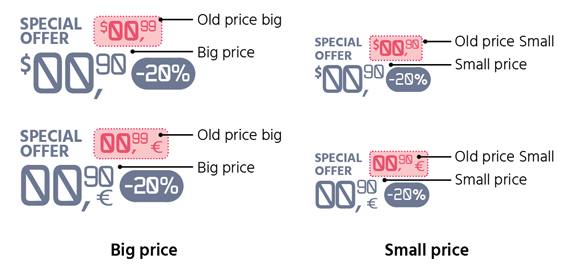
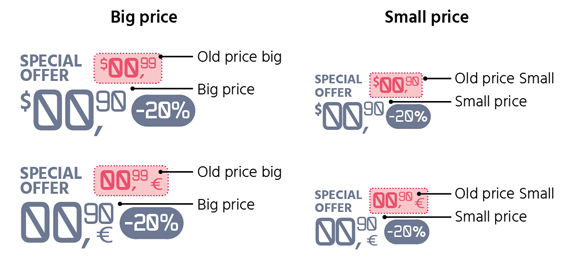
prices 2

diff --git a/brochure/index.html b/brochure/index.html
@@ -32,7 +32,7 @@
 				<li><strong>Two different prices styles in two sizes</strong> <ul><li>Old Price Small</li><li>Old Price Big</li><li>Price Small</li><li>Price Big</li></ul><br><img src="https://raw.githubusercontent.com/akidaniel/almacen/gh-pages/brochure/images/price_size.jpg" alt="Price sizes" ></li>
 
 				<li><strong>Prices with GREP Styles optimized for $ and € wich includes:</strong>
-                <ul><li>Auto superscript cents except for figures below the unit</li><li>Auto hidden ",00" cents</li><li>Auto percentage discount style in the same paragraph after the price</li><li>Auto superscript to the $ symbol</li><li>Auto subscript to the ¢ symbol</li><li>Auto subscript to the € symbol</li><li>Auto negative indentation to the € symbol (offer price style)</li></ul><br><img src="https://raw.githubusercontent.com/akidaniel/almacen/gh-pages/brochure/images/prices.gif" alt="Price Styles">
+                <ul><li>Auto superscript cents except for figures below the unit</li><li>Auto hidden ",00" cents</li><li>Auto percentage discount style in the same paragraph after the price</li><li>Auto superscript to the $ symbol</li><li>Auto subscript to the ¢ symbol</li><li>Auto subscript to the € symbol</li><li>Auto negative indentation to the € symbol (offer price style)</li></ul><br><img src="https://raw.githubusercontent.com/akidaniel/almacen/gh-pages/brochure/images/prices2.gif" alt="Price Styles">
                 
                 </li>
 				<li><strong>32 Color Bullets Styles</strong><br><img src="https://raw.githubusercontent.com/akidaniel/almacen/gh-pages/brochure/images/colors.jpg" alt="Color Styles" ></li>
